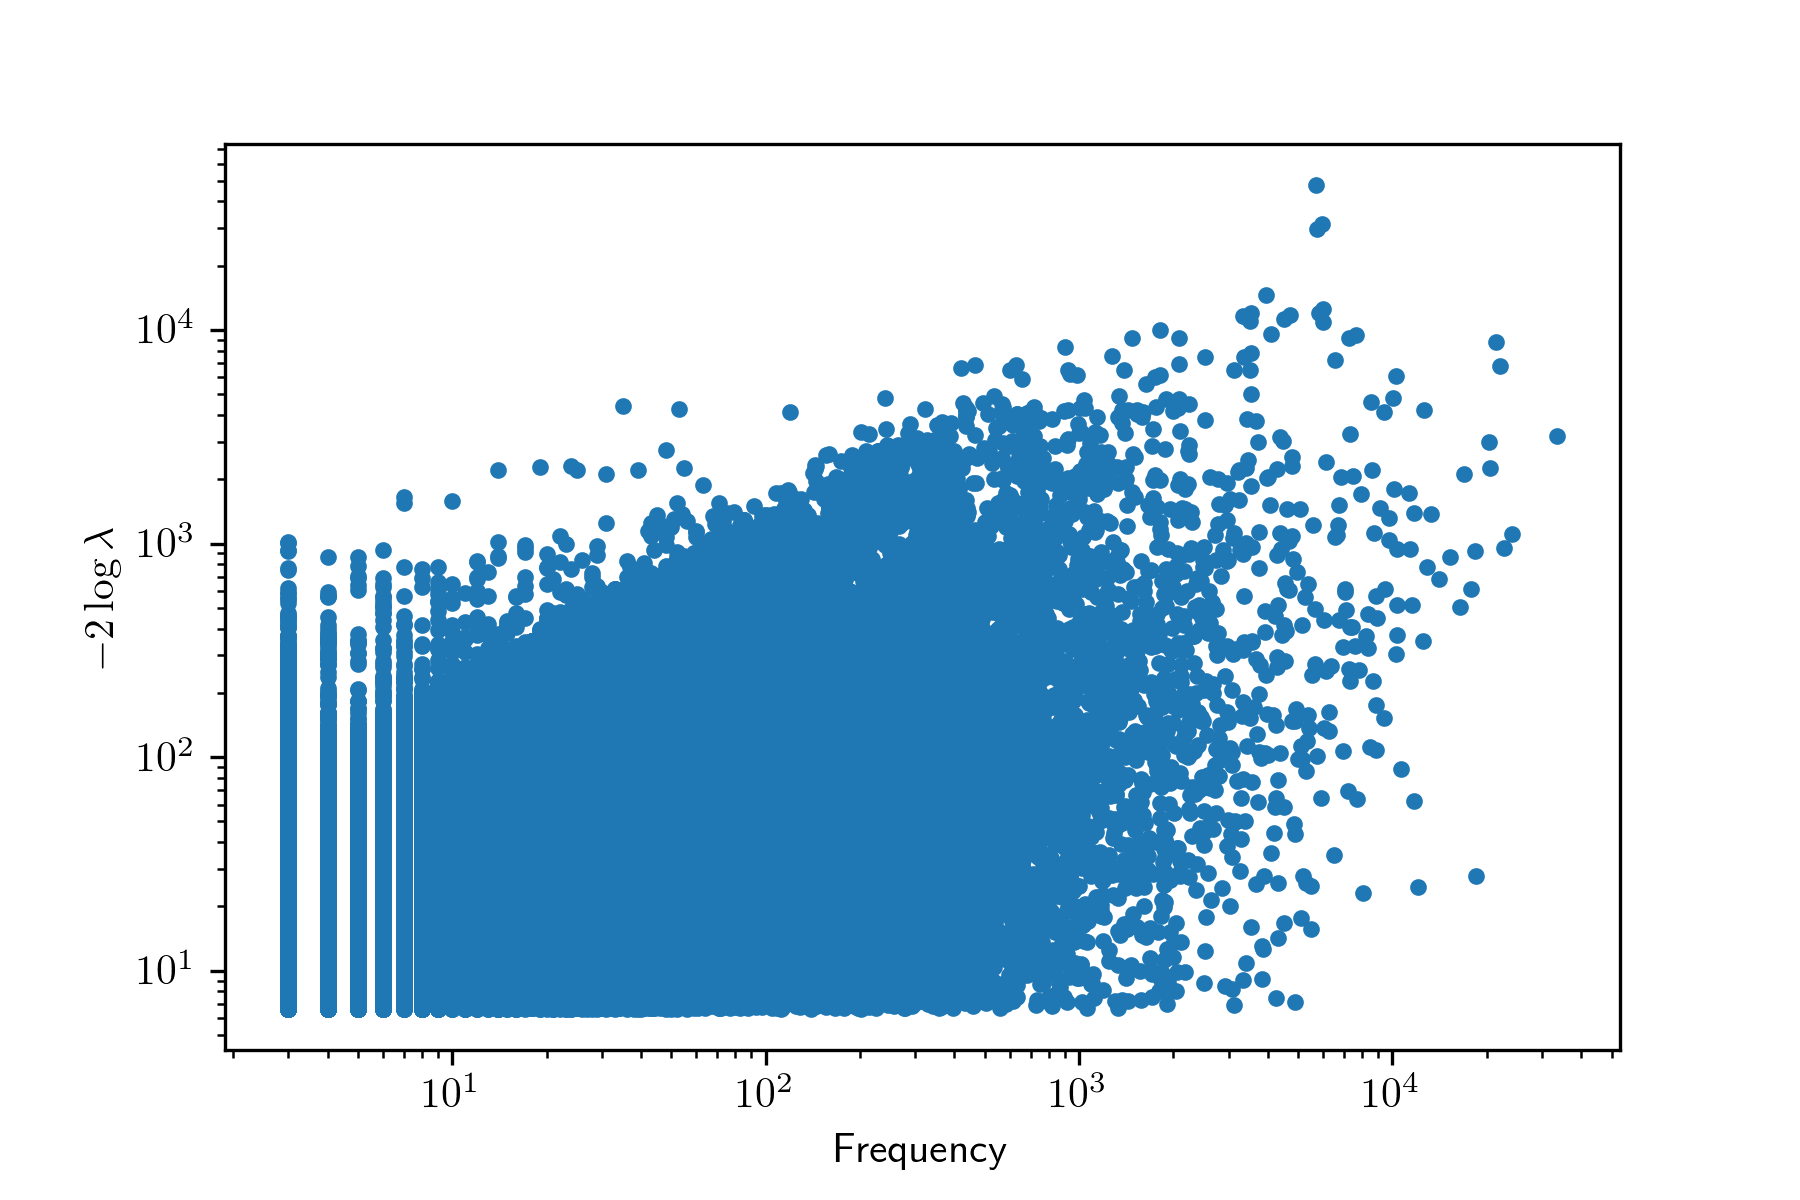
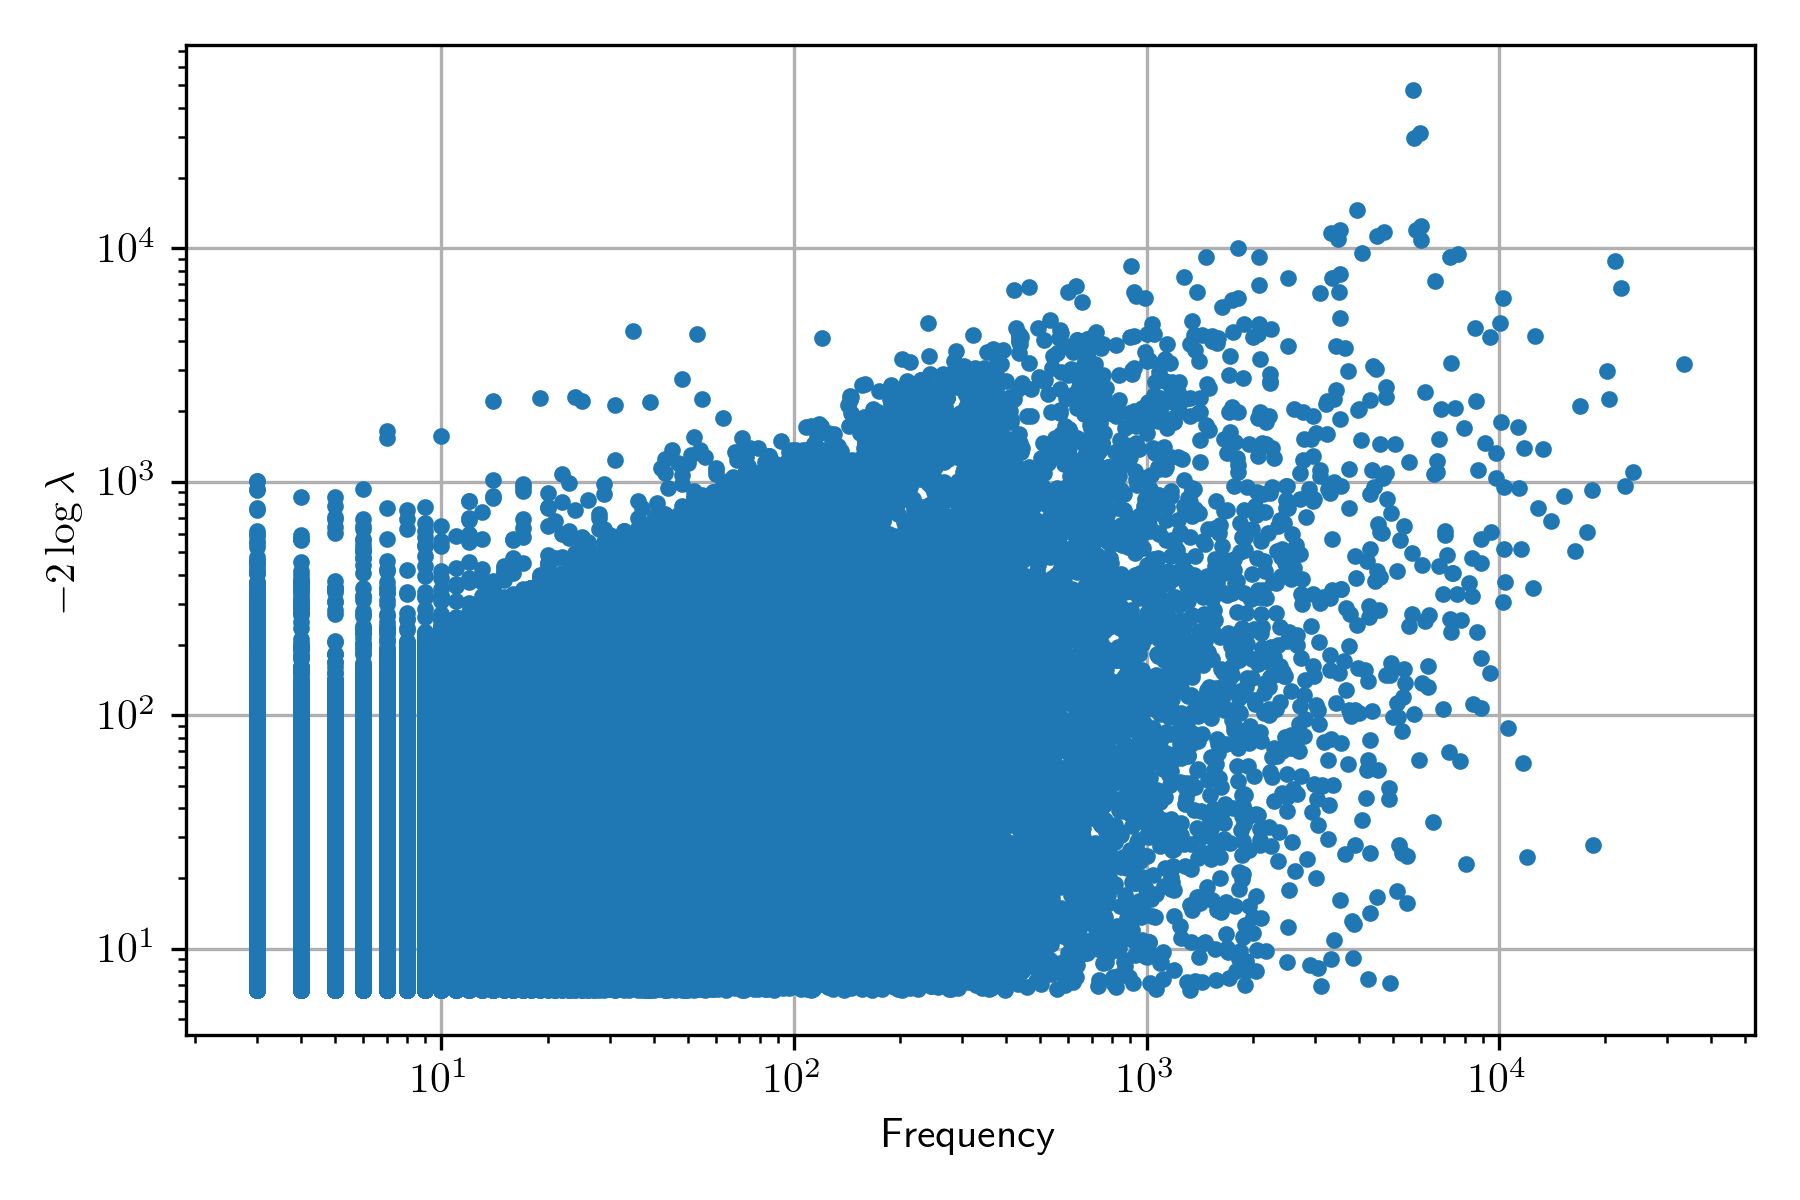
Activities

diff --git a/code/03Collocations.py b/code/03Collocations.py
@@ -203,6 +203,7 @@ plt.semilogx([x for x, _ in scatter],
 plt.grid()
 plt.xlabel('Frequency')
 plt.ylabel('Wald Statistic')
+plt.tight_layout()
 plt.savefig('scatter_plot_hypw.png', dpi=300)
 
 
@@ -212,6 +213,8 @@ plt.loglog([x for x, _ in scatter],
            [y for _, y in scatter], '.')
 plt.xlabel('Frequency')
 plt.ylabel(r'$-2 \log \lambda$')
+plt.grid()
+plt.tight_layout()
 plt.savefig('scatter_plot_hypl.png', dpi=300)
 
 
